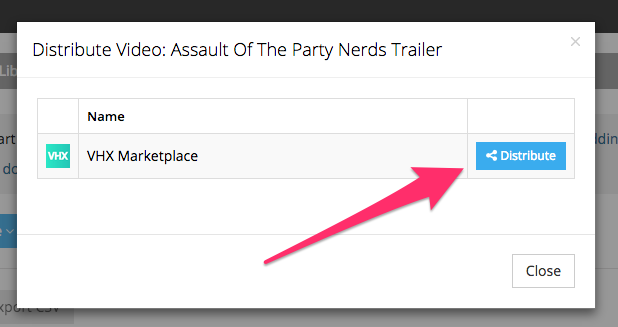
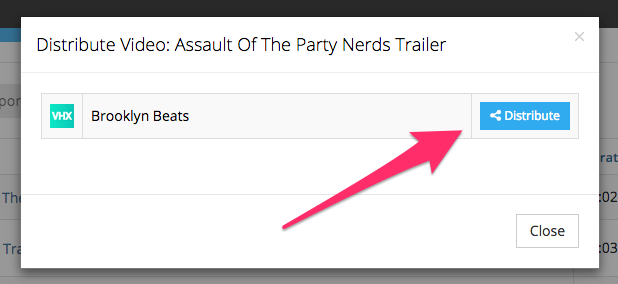
Updated docs for video distribution. Added docs for distribution endpoints

Changed region(s): [[0.0, 0.0563, 1.0, 0.9577], [0.8301, 0.7324, 0.9223, 0.7606]]

diff --git a/_site/api_docs/distribution_endpoints/index.html b/_site/api_docs/distribution_endpoints/index.html
@@ -6,12 +6,12 @@
     <meta name="viewport" content="width=device-width, initial-scale=1, user-scalable=no">
     <meta http-equiv="X-UA-Compatible" content="IE=edge">
 
-    <title>Zype Developer Portal | Zype Platform</title>
+    <title>Zype Developer Portal | Distribution Endpoints</title>
     <meta name="description" content="This is the devloper portal for Zype Media. Zype is Revenue and Reach Magic for Online Video. We help content owners deliver fully branded video experiences.
 ">
 
     <link rel="stylesheet" href="/css/main.css">
-    <link rel="canonical" href="http://dev.zype.com//api_docs/zype_platform/">
+    <link rel="canonical" href="http://dev.zype.com//api_docs/distribution_endpoints/">
     <link href="//maxcdn.bootstrapcdn.com/font-awesome/4.2.0/css/font-awesome.min.css" rel="stylesheet">
 
     <!--[if lt IE 9]>
@@ -77,57 +77,131 @@
 
 
     <section id="main">
-      <h2 id="zype-platform">Zype Platform</h2>
+      <h2 id="distribution-endpoints">Distribution Endpoints</h2>
+<hr />
 
-<p>The Zype API is feature rich, so we want to provide you with a place to learn more about it. The documentation below will help you with a number of objects based around the Zype Platform.</p>
+<h3 id="list-all-distribution-endpoints">List all Distribution Endpoints</h3>
+<hr />
 
-<div style="width: 100%; display: inline-flex;">
-  <div style="width: 50%;">
-    <div style="margin: 20px;">
-      <span class="fa fa-file-text" style="margin-right: 4px;"></span>
-      <a href="/api_docs/videos/">Videos</a>
-    </div>
-    <div style="margin: 20px;">
-      <span class="fa fa-file-text" style="margin-right: 4px;"></span>
-      <a href="/api_docs/video_imports/">Video Imports</a>
-    </div>
-    <div style="margin: 20px;">
-      <span class="fa fa-file-text" style="margin-right: 4px;"></span>
-      <a href="/api_docs/video_sources/">Video Sources</a>
-    </div>
-    <div style="margin: 20px;">
-      <span class="fa fa-file-text" style="margin-right: 4px;"></span>
-      <a href="/api_docs/playlists/">Playlists</a>
-    </div>
-    <div style="margin: 20px;">
-      <span class="fa fa-file-text" style="margin-right: 4px;"></span>
-      <a href="/api_docs/categories/">Zobjects</a>
-    </div>
-  </div>
+<pre><code>GET - https://api.zype.com/publishing_endpoints?page=page&amp;per_page=per_page
+</code></pre>
 
-  <div style="width: 50%">
-    <div style="margin: 20px;">
-      <span class="fa fa-file-text" style="margin-right: 4px;"></span>
-      <a href="/api_docs/device_categories/">Device Categories</a>
-    </div>
-    <div style="margin: 20px;">
-      <span class="fa fa-file-text" style="margin-right: 4px;"></span>
-      <a href="/api_docs/devices/">Devices</a>
-    </div>
-    <div style="margin: 20px;">
-      <span class="fa fa-file-text" style="margin-right: 4px;"></span>
-      <a href="/api_docs/revenue_models/">Revenue Models</a>
-    </div>
-    <div style="margin: 20px;">
-      <span class="fa fa-file-text" style="margin-right: 4px;"></span>
-      <a href="/api_docs/apps/">Roku App</a>
-    </div>
-    <div style="margin: 20px;">
-      <span class="fa fa-file-text" style="margin-right: 4px;"></span>
-      <a href="/api_docs/geoip/">GeoIP</a>
-    </div>
-  </div>
-</div>
+<h4 id="parameters">Parameters</h4>
+
+<table>
+  <thead>
+    <tr>
+      <th>Parameter</th>
+      <th>Function</th>
+      <th>Type</th>
+    </tr>
+  </thead>
+  <tbody>
+    <tr>
+      <td>page</td>
+      <td>The page number of records to return (zero indexed). Example: 0.</td>
+      <td>Number</td>
+    </tr>
+    <tr>
+      <td>per_page</td>
+      <td>The number of records to return. Example: 10.</td>
+      <td>Number</td>
+    </tr>
+  </tbody>
+</table>
+
+<h4 id="response">Response</h4>
+<p>200
+Content-Type: application/json</p>
+
+<pre><code>{
+"response": [
+    {
+      "_id":"5536b4fc636261a7821b0000",
+      "_keywords":
+        [
+          "beats",
+          "brooklyn",
+          "publishingendpoint",
+          "vhx"
+        ],
[1 lines of base64/hex data omitted]
+      "created_at": "2015-04-21T16:37:17.056-04:00",
+      "deleted_at": null,
+      "editable": true,
+      "expires_at": 1429741238,
+      "name": "Brooklyn Beats",
+      "package_id": null,
[1 lines of base64/hex data omitted]
+      "refreshed_at": null,
+      "site_id": "53c0457969702d4d66000000",
+      "updated_at": "2015-04-22T16:20:38.919-04:00",
+      "vhx_site_id": 11208
+    }
+  ],
+  "pagination": {
+    "current": 1,
+    "previous": null,
+    "next": null,
+    "per_page": 10,
+    "pages": 1
+  }
+}
+</code></pre>
+
+<h3 id="retrieve-a-distribution-endpoint">Retrieve a Distribution Endpoint</h3>
+<hr />
+
+<pre><code>GET - https://api.zype.com/publishing_endpoints/{id}?page=page&amp;per_page=per_page
+</code></pre>
+
+<h4 id="parameters-1">Parameters</h4>
+
+<table>
+  <thead>
+    <tr>
+      <th>Parameter</th>
+      <th>Function</th>
+      <th>Type</th>
+    </tr>
+  </thead>
+  <tbody>
+    <tr>
+      <td>id</td>
+      <td>String id of the Distribution Endpoint to retrieve. Example: 5389352e69702d401b000000.</td>
+      <td>String</td>
+    </tr>
+  </tbody>
+</table>
+
+<h4 id="response-1">Response</h4>
+<p>200
+Content-Type: application/json</p>
+
+<pre><code>{
+"response":
+  {
+    "_id": "5536b4fc636261a7821b0000",
+    "_keywords": [
+      "beats",
+      "brooklyn",
+      "publishingendpoint",
+      "vhx"
+    ],
[1 lines of base64/hex data omitted]
+    "created_at": "2015-04-21T16:37:17.056-04:00",
+    "deleted_at": null,
+    "editable": true,
+    "expires_at": 1429741238,
+    "name": "Brooklyn Beats",
+    "package_id": null,
[1 lines of base64/hex data omitted]
+    "refreshed_at": null,"site_id":"53c0457969702d4d66000000",
+    "updated_at": "2015-04-22T16:20:38.919-04:00",
+    "vhx_site_id": 11208
+  }
+}
+</code></pre>
 
     </section>
 

diff --git a/_site/platform_docs/distribution/index.html b/_site/platform_docs/distribution/index.html
@@ -61,7 +61,7 @@
           <p><a href="/platform_docs/consumers/">Consumers</a></p>
           <p><a href="/platform_docs/plans/">Plans</a></p>
           <p><a href="/platform_docs/subscriptions/">Subscriptions</a></p>
-          <p><a href="/platform_docs/distribution/">Distribution</a></p>
+          <!-- <p><a href="/platform_docs/distribution/">Distribution</a></p> -->
           <p><a href="/platform_docs/zobjects/">Zobjects</a></p>
         <br>
       <p class="category"><a href="/glossary/" style="color: #8acfef;">Glossary</a></p>
@@ -77,7 +77,8 @@
 
   <section id="main">
     <h2 id="distribution">Distribution</h2>
-<p>Zype makes it easy to distribute your videos for sale through other video platforms</p>
+<p>Zype makes it easy to distribute your videos for sale through other video platforms. Click one of the
+distribution endpoints</p>
 
 <div style="width: 100%;">
   <div style="margin: 20px;"><span class="fa fa-file-text" style="margin-right: 4px;"></span>
@@ -115,7 +116,8 @@ If you’ve got a VHX account and some Zype videos, we’ll make it easy to conn
 
 <p><img src="http://dev.zype.com/assets/distribution_vhx/Zype___Video_Library.png" alt="Distribute" /></p>
 
-<p>You’re done! You’ll get a brief message about what happens next if everything went smoothly.</p>
+<p>You’re done! You’ll get a brief message about what happens next if everything went smoothly.
+For VHX, that means you’ll get an email from them when your video is ready to be packaged for sale.</p>
 
 <p><img src="http://dev.zype.com/assets/distribution_vhx/Confirmation.png" alt="Distribute" /></p>
 

diff --git a/_site/api_docs/videos/index.html b/_site/api_docs/videos/index.html
@@ -53,6 +53,7 @@
       <p><a href="/api_docs/revenue_models/">Revenue Models</a></p>
       <p><a href="/api_docs/video_imports/">Video Imports</a></p>
       <p><a href="/api_docs/video_sources/">Video Sources</a></p>
+      <p><a href="/api_docs/distribution_endpoints/">Distribution Endpoints</a></p>
       <p><a href="/api_docs/geoip/">GeoIP</a></p>
       <a href="/api_docs/users/"><h4 class="api-header">Users</h4></a>
       <p><a href="/api_docs/consumers/">Consumers</a></p>
@@ -1131,10 +1132,10 @@ Content-Type: application/json</p>
 }
 </code></pre>
 
-<h3 id="publish-a-video">Publish a Video</h3>
+<h3 id="distribute-a-video">Distribute a Video</h3>
 <hr />
 
-<pre><code>POST - https://api.zype.com/videos/{id}/publish
+<pre><code>POST - https://api.zype.com/videos/{id}/distribute
 </code></pre>
 
 <h4 id="parameters-11">Parameters</h4>
@@ -1154,8 +1155,8 @@ Content-Type: application/json</p>
       <td>String</td>
     </tr>
     <tr>
-      <td>vhx_endpoint</td>
-      <td>String id of the VHX video source where the video will be published.</td>
+      <td>endpoint</td>
+      <td>String id of the Distribution Endpoint where the video will be distributed.</td>
       <td>String</td>
     </tr>
   </tbody>

diff --git a/_site/platform_docs/adding_videos/index.html b/_site/platform_docs/adding_videos/index.html
@@ -61,7 +61,7 @@
           <p><a href="/platform_docs/consumers/">Consumers</a></p>
           <p><a href="/platform_docs/plans/">Plans</a></p>
           <p><a href="/platform_docs/subscriptions/">Subscriptions</a></p>
-          <p><a href="/platform_docs/distribution/">Distribution</a></p>
+          <!-- <p><a href="/platform_docs/distribution/">Distribution</a></p> -->
           <p><a href="/platform_docs/zobjects/">Zobjects</a></p>
         <br>
       <p class="category"><a href="/glossary/" style="color: #8acfef;">Glossary</a></p>

diff --git a/_site/platform_docs/apps/index.html b/_site/platform_docs/apps/index.html
@@ -61,7 +61,7 @@
           <p><a href="/platform_docs/consumers/">Consumers</a></p>
           <p><a href="/platform_docs/plans/">Plans</a></p>
           <p><a href="/platform_docs/subscriptions/">Subscriptions</a></p>
-          <p><a href="/platform_docs/distribution/">Distribution</a></p>
+          <!-- <p><a href="/platform_docs/distribution/">Distribution</a></p> -->
           <p><a href="/platform_docs/zobjects/">Zobjects</a></p>
         <br>
       <p class="category"><a href="/glossary/" style="color: #8acfef;">Glossary</a></p>

diff --git a/_site/platform_docs/assets/index.html b/_site/platform_docs/assets/index.html
@@ -61,7 +61,7 @@
           <p><a href="/platform_docs/consumers/">Consumers</a></p>
           <p><a href="/platform_docs/plans/">Plans</a></p>
           <p><a href="/platform_docs/subscriptions/">Subscriptions</a></p>
-          <p><a href="/platform_docs/distribution/">Distribution</a></p>
+          <!-- <p><a href="/platform_docs/distribution/">Distribution</a></p> -->
           <p><a href="/platform_docs/zobjects/">Zobjects</a></p>
         <br>
       <p class="category"><a href="/glossary/" style="color: #8acfef;">Glossary</a></p>

diff --git a/_site/platform_docs/categories/index.html b/_site/platform_docs/categories/index.html
@@ -61,7 +61,7 @@
           <p><a href="/platform_docs/consumers/">Consumers</a></p>
           <p><a href="/platform_docs/plans/">Plans</a></p>
           <p><a href="/platform_docs/subscriptions/">Subscriptions</a></p>
-          <p><a href="/platform_docs/distribution/">Distribution</a></p>
+          <!-- <p><a href="/platform_docs/distribution/">Distribution</a></p> -->
           <p><a href="/platform_docs/zobjects/">Zobjects</a></p>
         <br>
       <p class="category"><a href="/glossary/" style="color: #8acfef;">Glossary</a></p>

diff --git a/_site/platform_docs/consumers/index.html b/_site/platform_docs/consumers/index.html
@@ -61,7 +61,7 @@
           <p><a href="/platform_docs/consumers/">Consumers</a></p>
           <p><a href="/platform_docs/plans/">Plans</a></p>
           <p><a href="/platform_docs/subscriptions/">Subscriptions</a></p>
-          <p><a href="/platform_docs/distribution/">Distribution</a></p>
+          <!-- <p><a href="/platform_docs/distribution/">Distribution</a></p> -->
           <p><a href="/platform_docs/zobjects/">Zobjects</a></p>
         <br>
       <p class="category"><a href="/glossary/" style="color: #8acfef;">Glossary</a></p>

diff --git a/_site/platform_docs/creating_an_app/index.html b/_site/platform_docs/creating_an_app/index.html
@@ -61,7 +61,7 @@
           <p><a href="/platform_docs/consumers/">Consumers</a></p>
           <p><a href="/platform_docs/plans/">Plans</a></p>
           <p><a href="/platform_docs/subscriptions/">Subscriptions</a></p>
-          <p><a href="/platform_docs/distribution/">Distribution</a></p>
+          <!-- <p><a href="/platform_docs/distribution/">Distribution</a></p> -->
           <p><a href="/platform_docs/zobjects/">Zobjects</a></p>
         <br>
       <p class="category"><a href="/glossary/" style="color: #8acfef;">Glossary</a></p>

diff --git a/_site/platform_docs/embedding_a_player/index.html b/_site/platform_docs/embedding_a_player/index.html
@@ -61,7 +61,7 @@
           <p><a href="/platform_docs/consumers/">Consumers</a></p>
           <p><a href="/platform_docs/plans/">Plans</a></p>
           <p><a href="/platform_docs/subscriptions/">Subscriptions</a></p>
-          <p><a href="/platform_docs/distribution/">Distribution</a></p>
+          <!-- <p><a href="/platform_docs/distribution/">Distribution</a></p> -->
           <p><a href="/platform_docs/zobjects/">Zobjects</a></p>
         <br>
       <p class="category"><a href="/glossary/" style="color: #8acfef;">Glossary</a></p>

diff --git a/_site/platform_docs/google_analytics/index.html b/_site/platform_docs/google_analytics/index.html
@@ -61,7 +61,7 @@
           <p><a href="/platform_docs/consumers/">Consumers</a></p>
           <p><a href="/platform_docs/plans/">Plans</a></p>
           <p><a href="/platform_docs/subscriptions/">Subscriptions</a></p>
-          <p><a href="/platform_docs/distribution/">Distribution</a></p>
+          <!-- <p><a href="/platform_docs/distribution/">Distribution</a></p> -->
           <p><a href="/platform_docs/zobjects/">Zobjects</a></p>
         <br>
       <p class="category"><a href="/glossary/" style="color: #8acfef;">Glossary</a></p>

diff --git a/_site/platform_docs/index.html b/_site/platform_docs/index.html
@@ -61,7 +61,7 @@
           <p><a href="/platform_docs/consumers/">Consumers</a></p>
           <p><a href="/platform_docs/plans/">Plans</a></p>
           <p><a href="/platform_docs/subscriptions/">Subscriptions</a></p>
-          <p><a href="/platform_docs/distribution/">Distribution</a></p>
+          <!-- <p><a href="/platform_docs/distribution/">Distribution</a></p> -->
           <p><a href="/platform_docs/zobjects/">Zobjects</a></p>
         <br>
       <p class="category"><a href="/glossary/" style="color: #8acfef;">Glossary</a></p>
